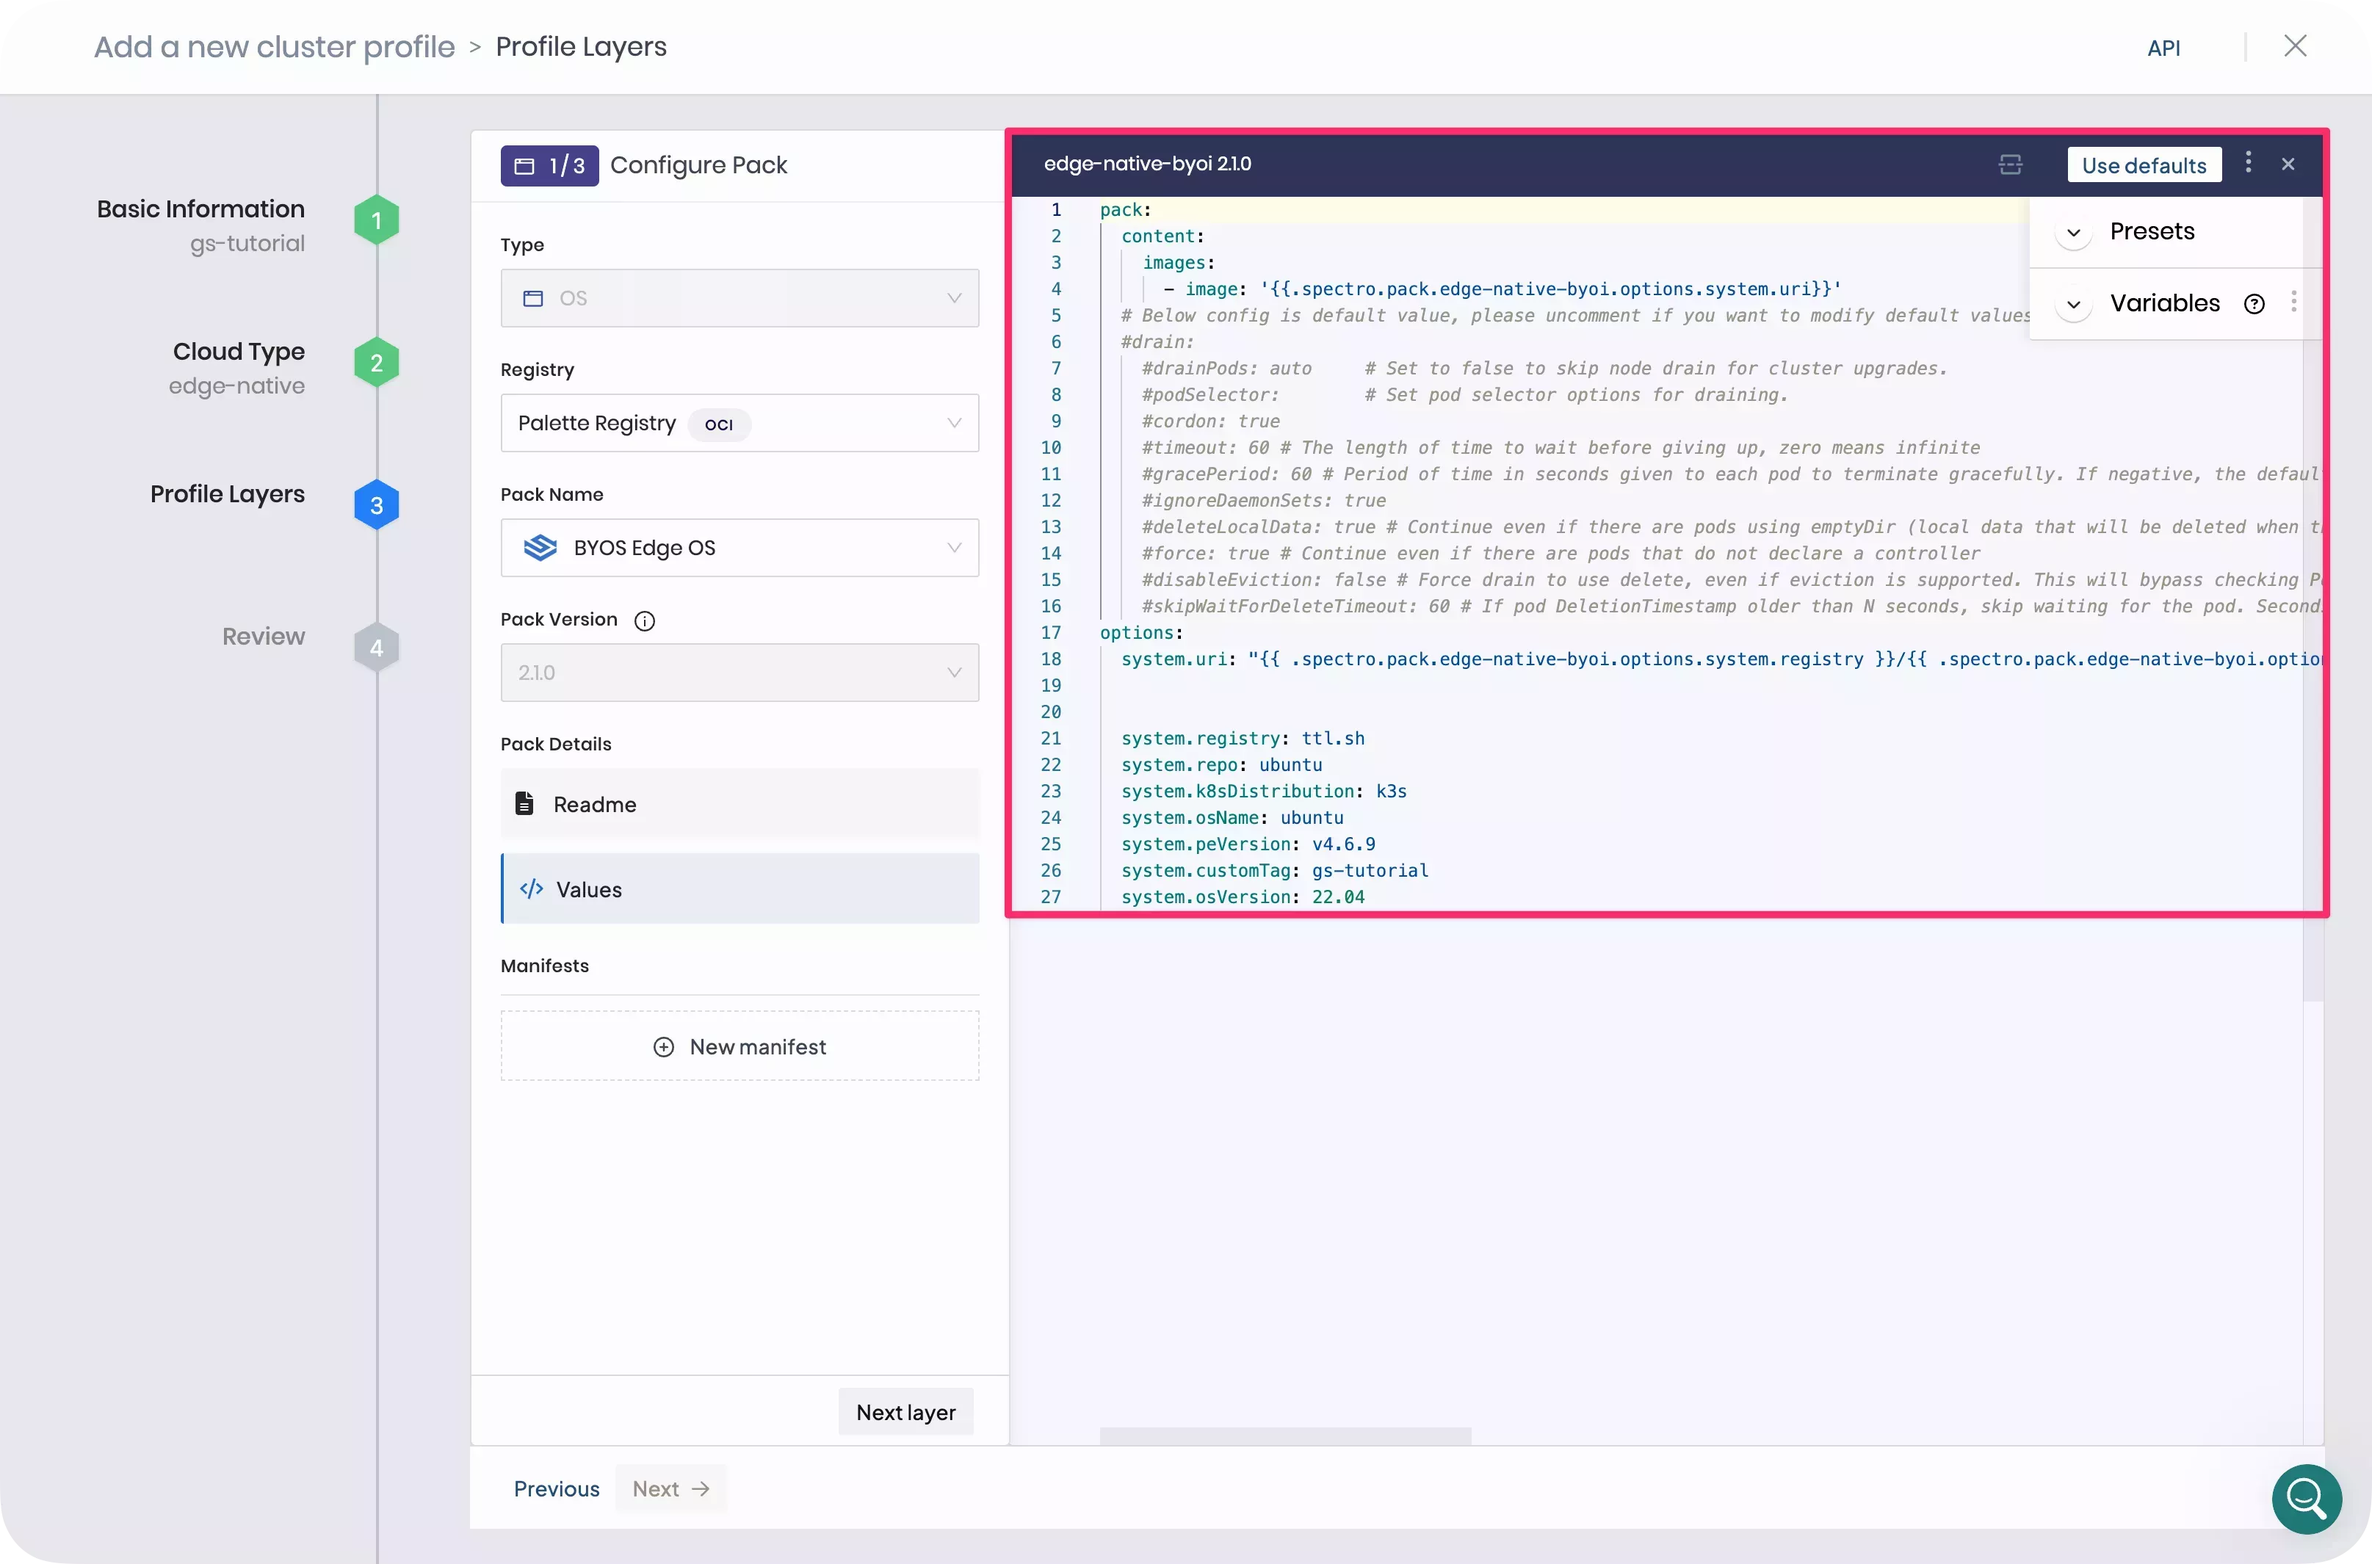
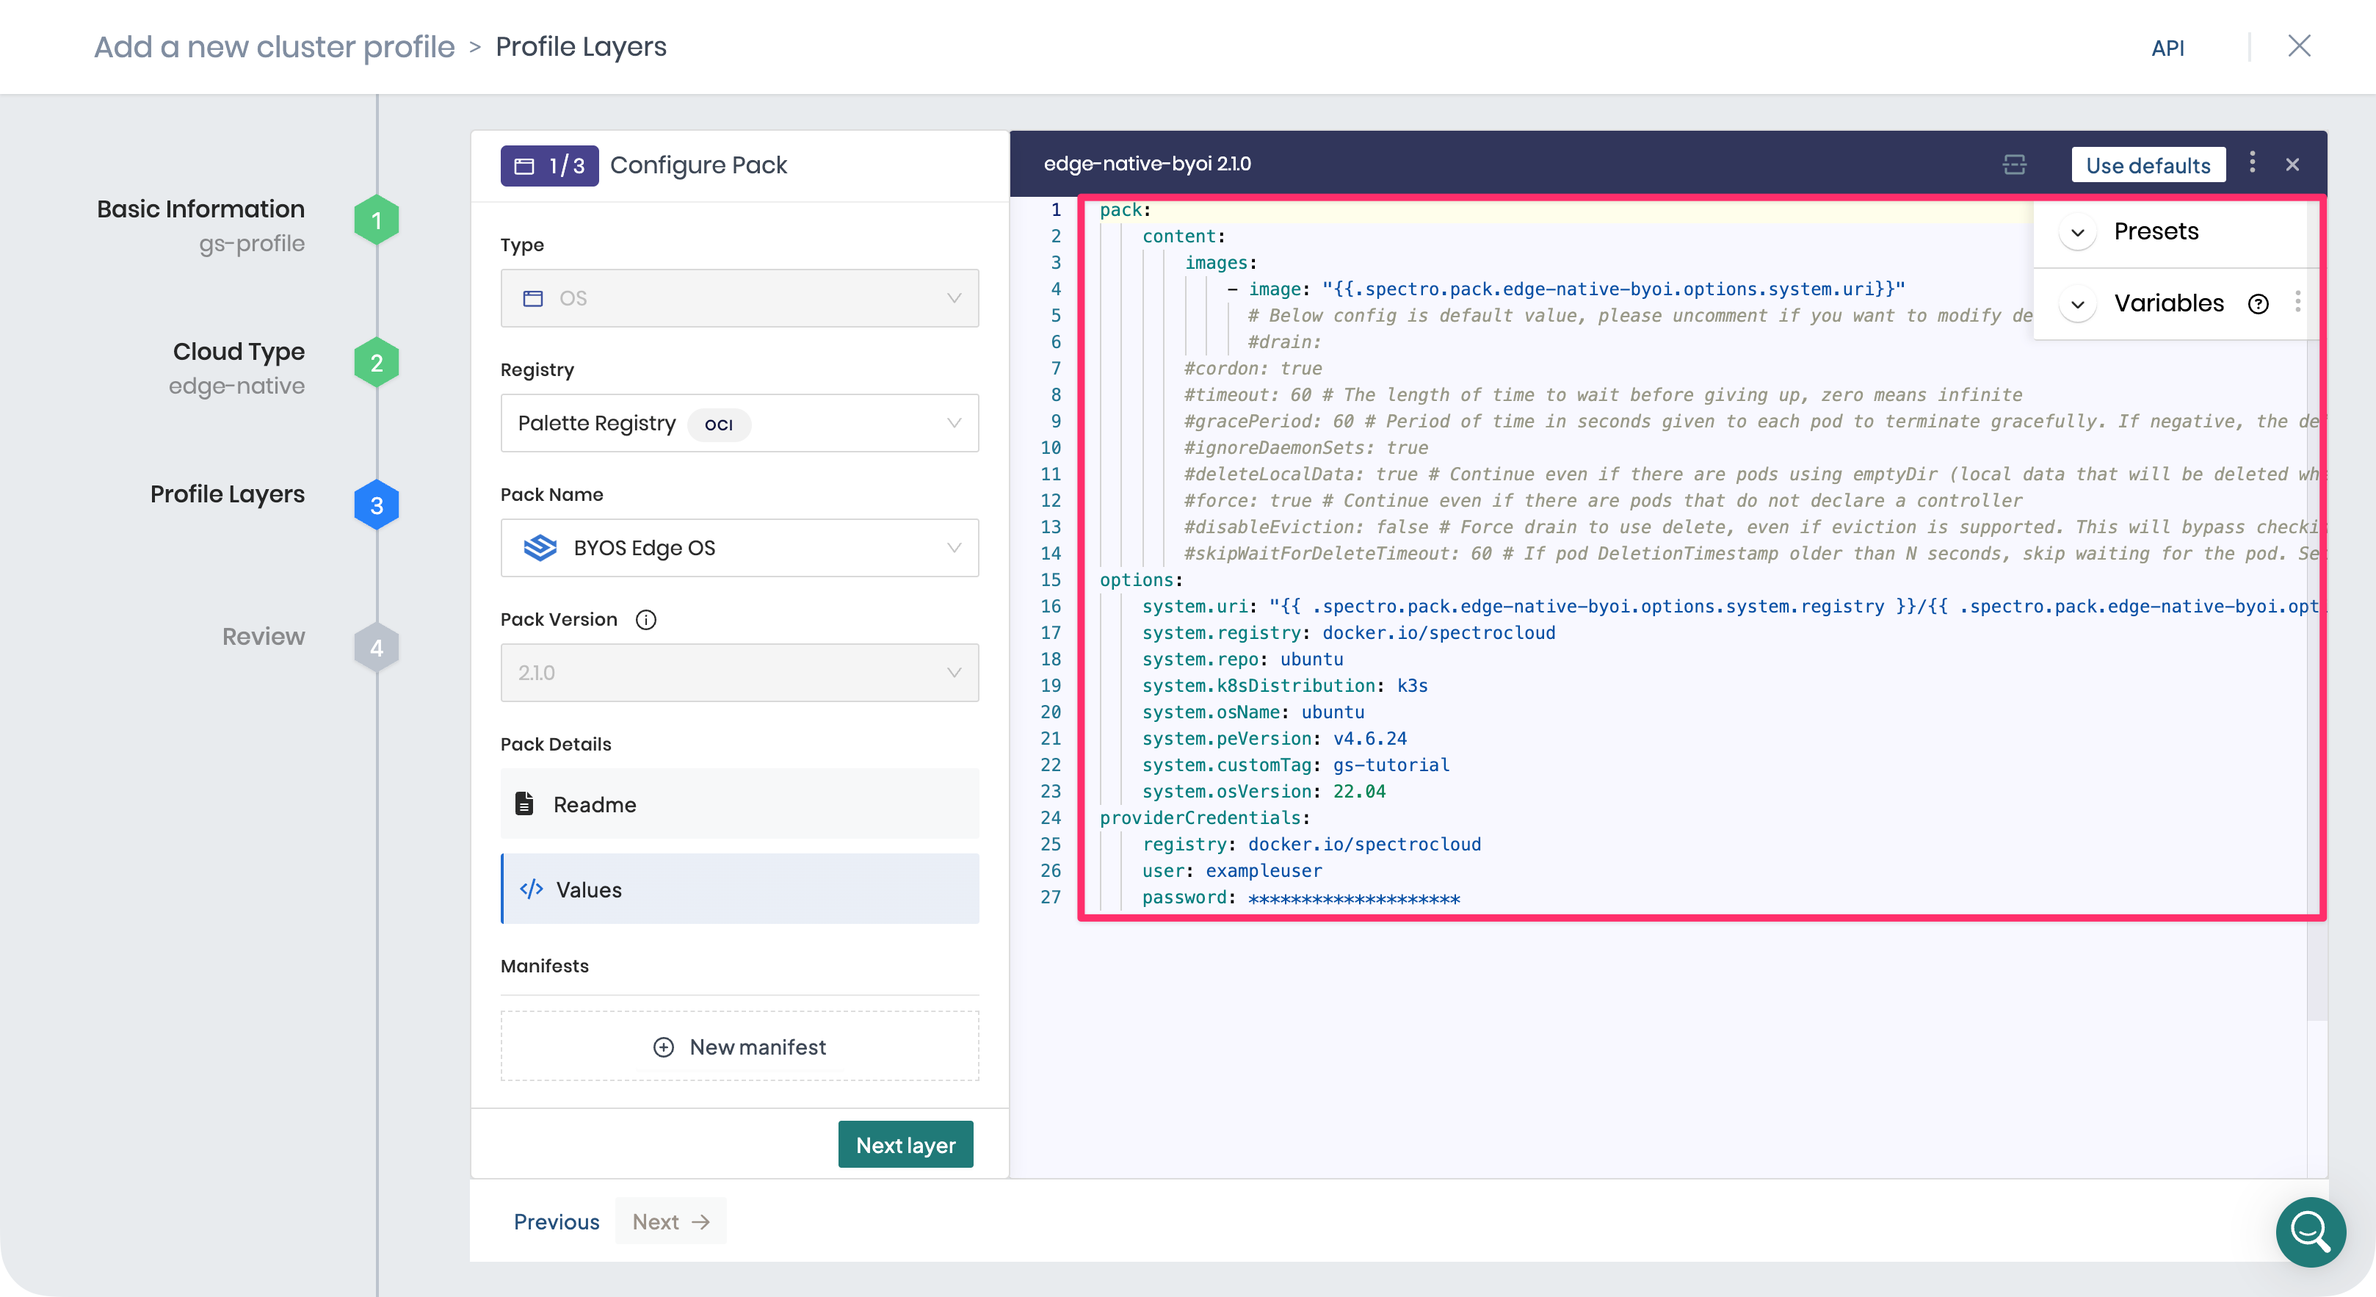
docs: update cluster profile tutorial

diff --git a/docs/docs-content/tutorials/getting-started/palette-edge/edge-cluster-profile.md b/docs/docs-content/tutorials/getting-started/palette-edge/edge-cluster-profile.md
@@ -46,7 +46,7 @@ click **Next**.
 
 The **Profile Layers** section defines the packs that compose the profile.
 
-Add the **BYOS Edge OS** pack to the OS layer. This pack enables you to use the custom OS you built in the
+Add the **BYOS Edge OS** pack to the OS layer. This pack enables you to use the custom image you built in the
 [Build Edge Artifacts](./build-edge-artifacts.md) tutorial as the operating system for the cluster nodes.
 
 | **Pack Name** | **Version** | **Registry**     | **Layer**        |
@@ -55,8 +55,21 @@ Add the **BYOS Edge OS** pack to the OS layer. This pack enables you to use the 
 
 Under **Pack Details**, select **Values** to open the YAML editor. Replace the default layer manifest with the custom
 manifest generated in the [Build Edge Artifacts](./build-edge-artifacts.md) tutorial. This makes the cluster pull the
-provider images from the [Docker Hub](https://www.docker.com/products/docker-hub/) registry during deployment. The
-following image displays the OS layer with the custom manifest.
+provider images from the image registry specified in the [Build Edge Artifacts](./build-edge-artifacts.md) tutorial
+during deployment.
+
+Since the registry is private, add the following snippet below the manifest, replacing the placeholder values with your
+actual registry credentials. The `providerCredentials.password` field will be masked when you provide it in the YAML
+file.
+
+```shell
+providerCredentials:
+    registry: <registry-address>
+    user: <registry-user>
+    password: <registry-password>
+```
+
+The following image displays the OS layer with the custom manifest and registry credentials.
 
 ![A screenshot of the cluster profile creation step with the OS layer.](/getting-started/getting-started_introduction-edge_edge-cluster-profile_byos-cluster-profile.webp)
 
@@ -65,7 +78,7 @@ version matches the version used in the provider images.
 
 | **Pack Name**         | **Version** | **Registry**     | **Layer**  |
 | --------------------- | ----------- | ---------------- | ---------- |
-| Palette Optimized K3s | 1.32.1      | Palette Registry | Kubernetes |
+| Palette Optimized K3s | 1.32.3      | Palette Registry | Kubernetes |
 
 Under **Pack Details**, select **Values** and replace the predefined `cluster-cidr` and `service-cidr` IP CIDRs if they
 overlap with the host network. For example, you can set `cluster-cidr` to `"100.64.0.0/18"` and `service-cidr` to
@@ -116,8 +129,6 @@ Under **Pack Details**, select **Values**, then choose **Presets**. This pack ha
 
 Select the **Enable Hello Universe API** preset. The pack manifest changes according to this selection.
 
-![A screenshot of the cluster profile creation step with the Hello Universe layer.](/getting-started/getting-started_introduction-edge_edge-cluster-profile_cluster-profile-hellouni.webp)
-
 When using this preset, you must provide two base64-encoded values: one for the authorization token and one for the
 database password. Replace the database password value with your own encoded value.
 
@@ -144,6 +155,8 @@ For the token, use the default encoded value listed in the
 dbPassword: "cGFzc3dvcmQ="
 authToken: "OTMxQTNCMDItOERDQy01NDNGLUExQjItNjk0MjNEMUEwQjk0"
 ```
+
+![A screenshot of the cluster profile creation step with the Hello Universe layer.](/getting-started/getting-started_introduction-edge_edge-cluster-profile_cluster-profile-hellouni.webp)
 
 Click **Confirm & Create** to save the alterations and add the pack to your cluster profile.
 
